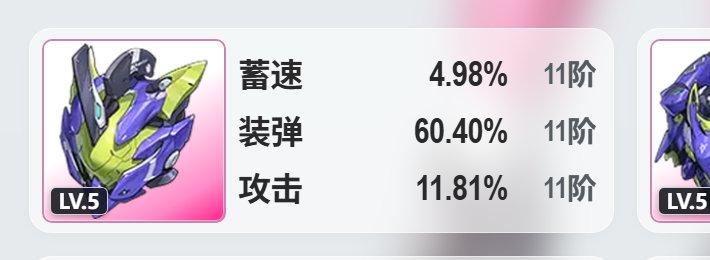
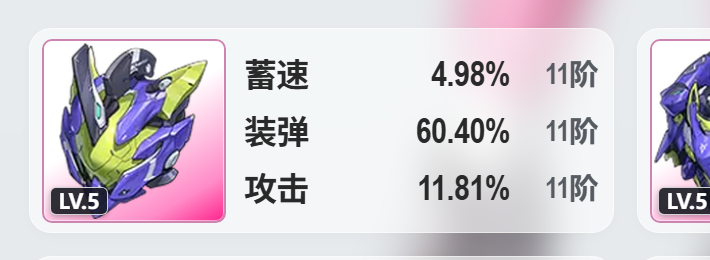
style(character-card): calibrate gear gap to 18px and update evidence
- Set .gear gap strictly to 18px with 10px 14px 10px 12px padding

- Re-render alice-card.png and crop-gear.png evidence assets

diff --git a/templates/t2i/character.html b/templates/t2i/character.html
@@ -141,7 +141,7 @@ html,body{margin:0;width:1600px;background:#e8ebee}*{box-sizing:border-box}
 .tier-badge{display:inline-flex;align-items:center;justify-content:center;justify-self:end;white-space:nowrap;font-family:var(--font-number);font-weight:700;font-variant-numeric:tabular-nums;line-height:1}
 .summary-tier{background:transparent;border:none;box-shadow:none;color:#4a5056;font-size:var(--type-summary-tier);font-weight:700;letter-spacing:-.5px;margin-right:20px;width:auto;min-width:70px}
 .equipment-grid{position:absolute;left:50px;top:519px;display:grid;grid-template-columns:585px 585px;grid-template-rows:205px 205px;gap:23px}
-.gear{position:relative;border-radius:22px;background:rgba(255,255,255,.52);backdrop-filter:blur(14px);border:1.5px solid rgba(255,255,255,.55);display:flex;align-items:center;padding:10px 16px 10px 12px;gap:12px;box-shadow:0 4px 12px rgba(15,20,30,.025);overflow:hidden}
+.gear{position:relative;border-radius:22px;background:rgba(255,255,255,.52);backdrop-filter:blur(14px);border:1.5px solid rgba(255,255,255,.55);display:flex;align-items:center;padding:10px 14px 10px 12px;gap:18px;box-shadow:0 4px 12px rgba(15,20,30,.025);overflow:hidden}
 .gear-picture{background:linear-gradient(150deg,#fff 45%,#ff8bc7 84%,#ff248b);border:2px solid #ce84b0;border-radius:10px;position:relative;width:184px;height:184px;flex:none;display:flex;align-items:center;justify-content:center;overflow:hidden;isolation:isolate}
 .gear-picture img{position:relative;z-index:1;width:184px;height:184px;object-fit:contain}
 .gear-picture:after{content:"";position:absolute;z-index:4;inset:0;border-radius:8px;box-shadow:inset 0 0 0 1px #fff8;pointer-events:none}
